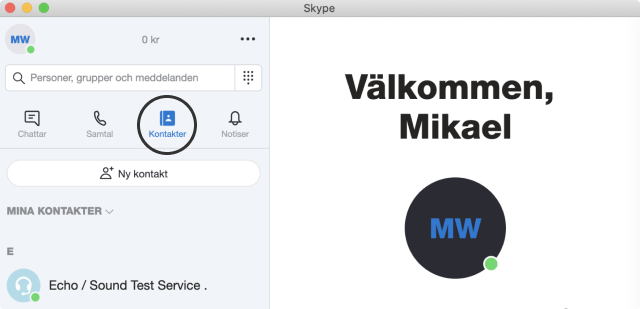
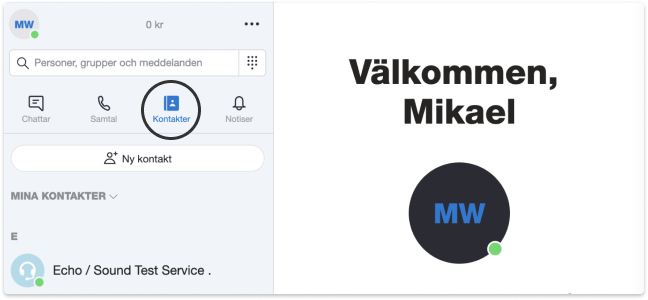
Replaced skype images to more os-neutral ones

diff --git a/src/pages/skype.tsx b/src/pages/skype.tsx
@@ -18,7 +18,7 @@ import pcDownloadsImg from "../content/skypePage/skypePcDownloads.png"
 import installImg from "../content/skypePage/skypeInstallScreenshot.png"
 import addContactsImg from "../content/skypePage/skypeAddContacts.png"
 import newContactsImg from "../content/skypePage/skypeNewContact.png"
-import makeACallImg from "../content/skypePage/skypeMacACall.png"
+import makeACallImg from "../content/skypePage/skypeMakeACall.png"
 
 const cards = [
   { id: "toggleVideo", image: toggleVideoImg },
